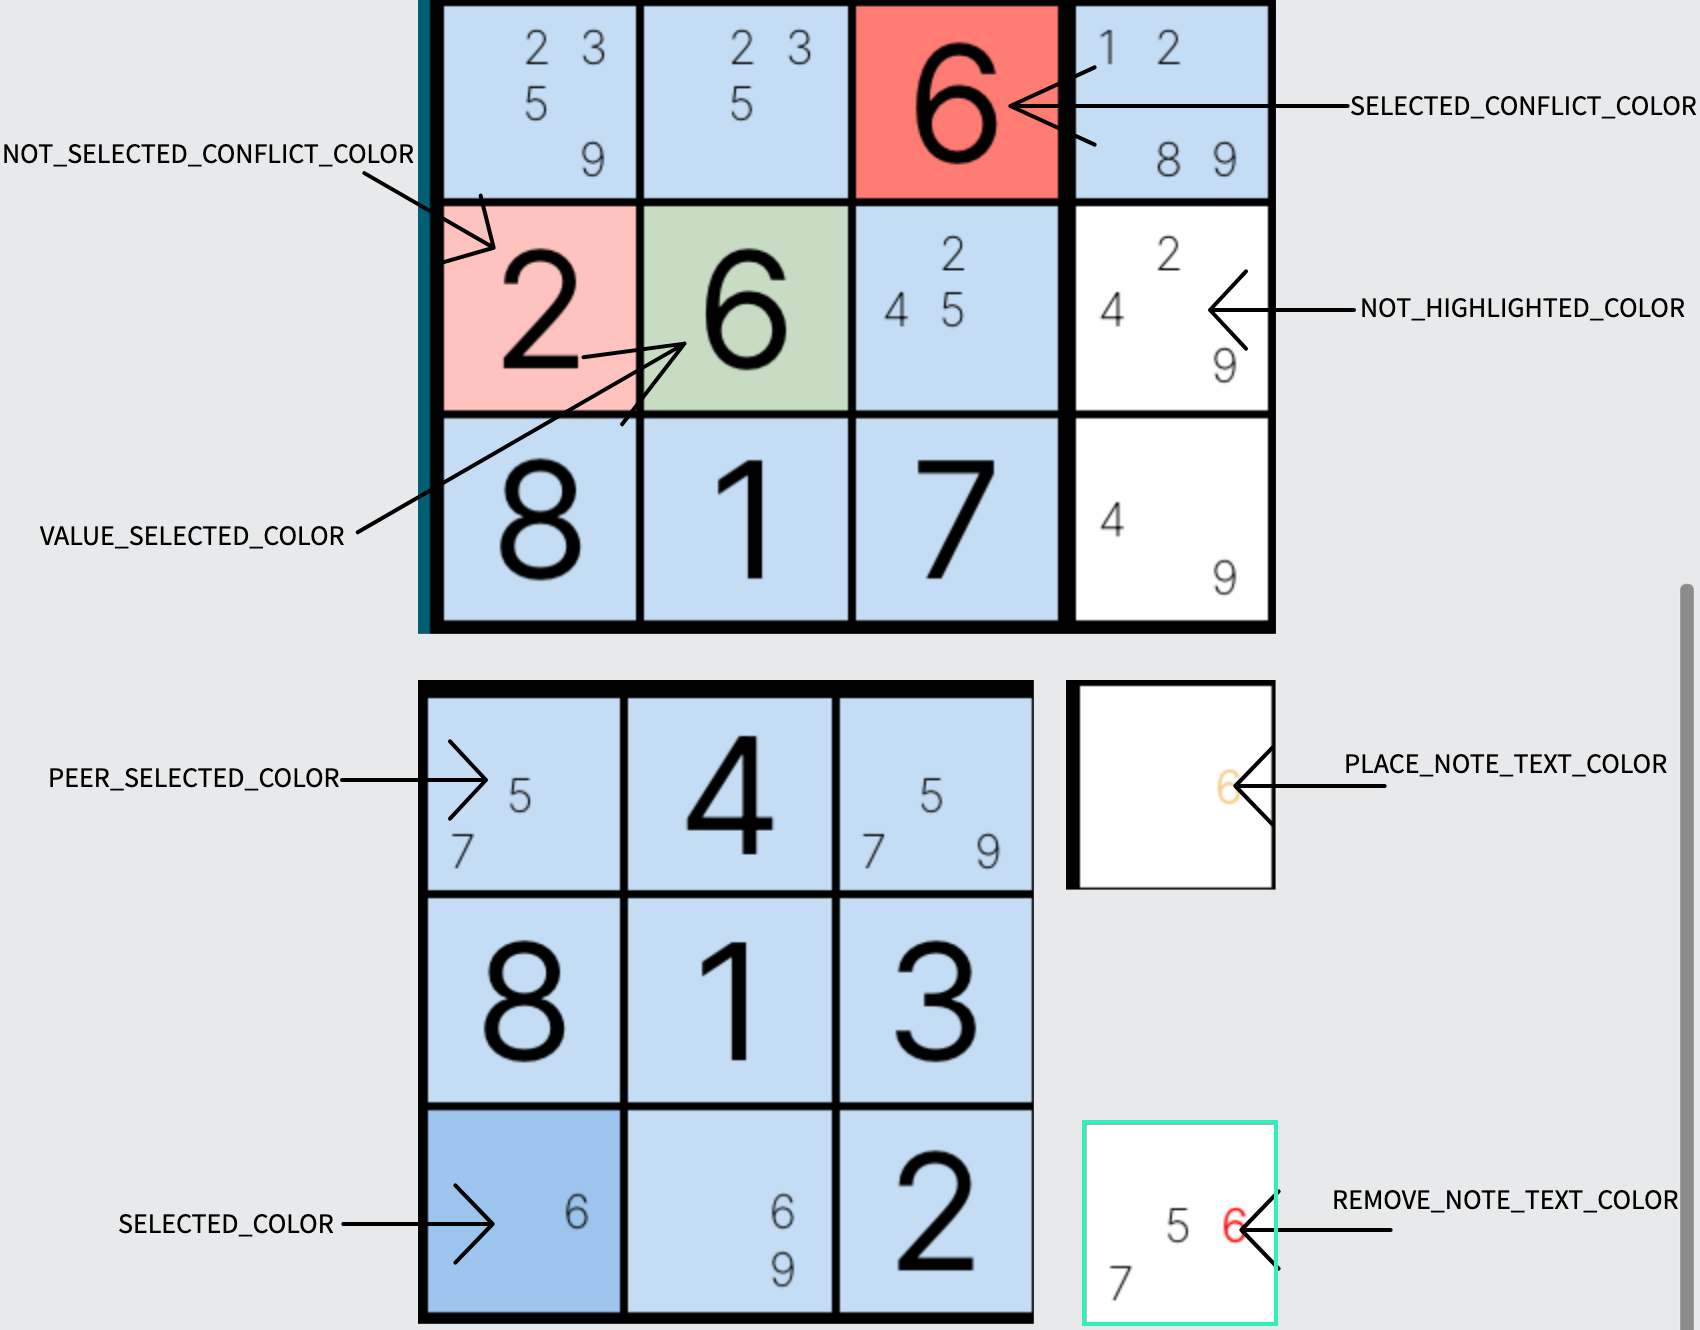
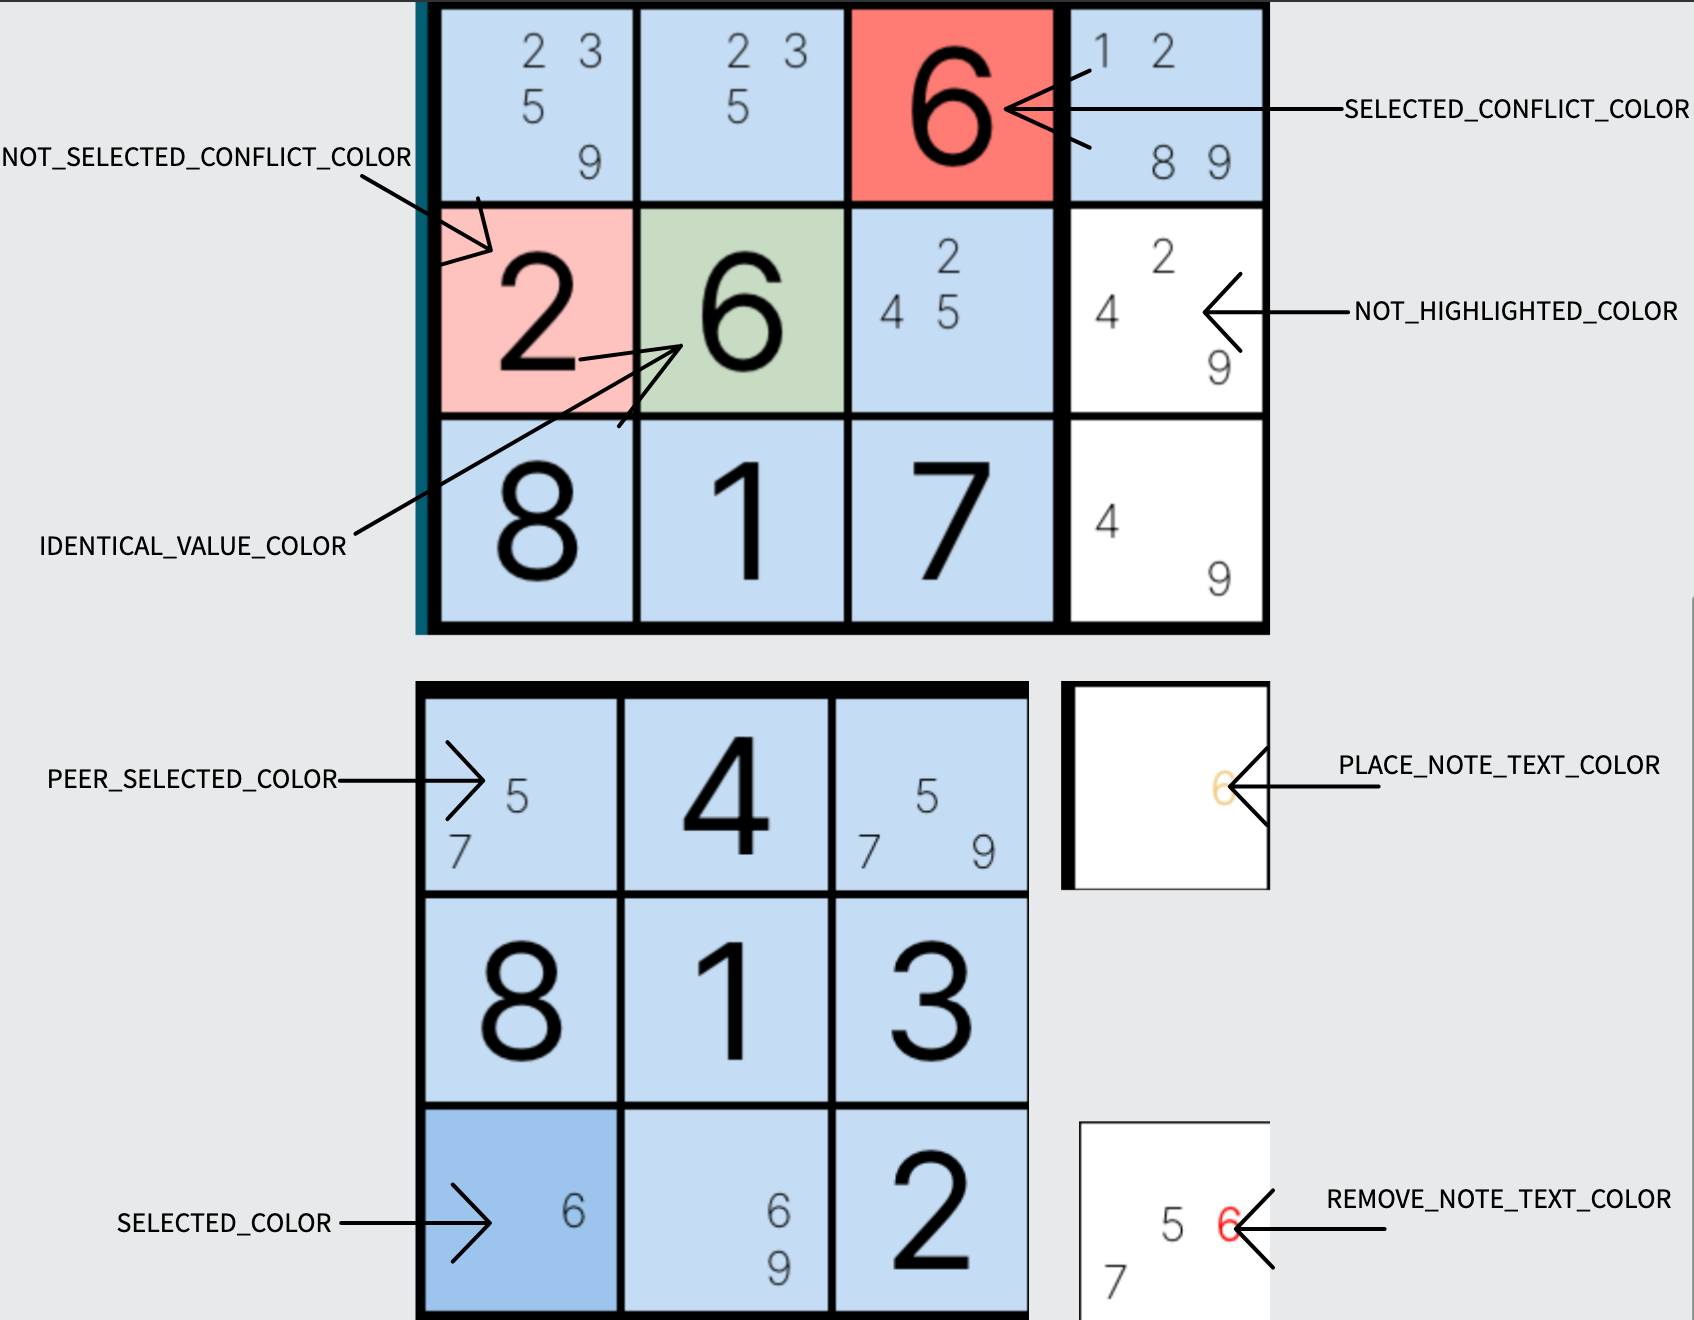
Changed VALUE_SELECTED_COLOR to IDENTICAL_VALUE_COLOR for greater clarity

Changed region(s): [[0.0, 0.0, 1.0, 1.0], [0.6446, 0.9318, 0.6753, 0.9629], [0.5218, 0.5902, 0.5525, 0.6212]]

diff --git a/app/Styling/HighlightColors.ts b/app/Styling/HighlightColors.ts
@@ -1,7 +1,7 @@
 export const NOT_SELECTED_CONFLICT_COLOR = "#FFC3BF";
 export const SELECTED_CONFLICT_COLOR = "#FF7C75";
 export const PEER_SELECTED_COLOR = "#C5DDF4";
-export const VALUE_SELECTED_COLOR = "#C8DCC4";
+export const IDENTICAL_VALUE_COLOR = "#C8DCC4";
 export const SELECTED_COLOR = "#9CC4EC";
 export const REMOVE_NOTE_TEXT_COLOR = "#FF0000";
 export const PLACE_NOTE_TEXT_COLOR = "#F2CA7E";
@@ -29,7 +29,7 @@ function RGB(hex: string): string {
 export const NOT_SELECTED_CONFLICT_COLOR_RGB = RGB(NOT_SELECTED_CONFLICT_COLOR);
 export const SELECTED_CONFLICT_COLOR_RGB = RGB(SELECTED_CONFLICT_COLOR);
 export const PEER_SELECTED_COLOR_RGB = RGB(PEER_SELECTED_COLOR);
-export const VALUE_SELECTED_COLOR_RGB = RGB(VALUE_SELECTED_COLOR);
+export const IDENTICAL_VALUE_COLOR_RGB = RGB(IDENTICAL_VALUE_COLOR);
 export const SELECTED_COLOR_RGB = RGB(SELECTED_COLOR);
 export const REMOVE_NOTE_TEXT_COLOR_RGB = RGB(REMOVE_NOTE_TEXT_COLOR);
 export const PLACE_NOTE_TEXT_COLOR_RGB = RGB(PLACE_NOTE_TEXT_COLOR);

diff --git a/cypress/e2e/puzzles.cy.ts b/cypress/e2e/puzzles.cy.ts
@@ -2,7 +2,7 @@ import {
   NOT_HIGHLIGHTED_COLOR_RGB,
   PEER_SELECTED_COLOR_RGB,
   SELECTED_COLOR_RGB,
-  VALUE_SELECTED_COLOR_RGB,
+  IDENTICAL_VALUE_COLOR,
 } from "../../app/Styling/HighlightColors";
 
 describe("Sudoku play component functions", () => {
@@ -62,7 +62,7 @@ describe("Sudoku play component functions", () => {
                     cy.get("[data-testid=cellr" + i + "c" + j + "]").should(
                       "have.css",
                       "background-color",
-                      VALUE_SELECTED_COLOR_RGB
+                      IDENTICAL_VALUE_COLOR
                     );
                   } else {
                     cy.get("[data-testid=cellr" + i + "c" + j + "]").should(

diff --git a/app/Components/Sudoku Board/Components/Cell.tsx b/app/Components/Sudoku Board/Components/Cell.tsx
@@ -22,7 +22,7 @@ import {
   REMOVE_NOTE_TEXT_COLOR,
   SELECTED_COLOR,
   SELECTED_CONFLICT_COLOR,
-  VALUE_SELECTED_COLOR,
+  IDENTICAL_VALUE_COLOR,
 } from "../../../Styling/HighlightColors";
 
 let puzzleString = "";
@@ -344,7 +344,7 @@ const styles = (cellSize?: number, themeColor?: any) =>
     sameValue: {
       // styles for cells with sameValue prop
       color: "#000000",
-      backgroundColor: VALUE_SELECTED_COLOR,
+      backgroundColor: IDENTICAL_VALUE_COLOR,
     },
     selected: {
       // styles for cells with isSelected prop
